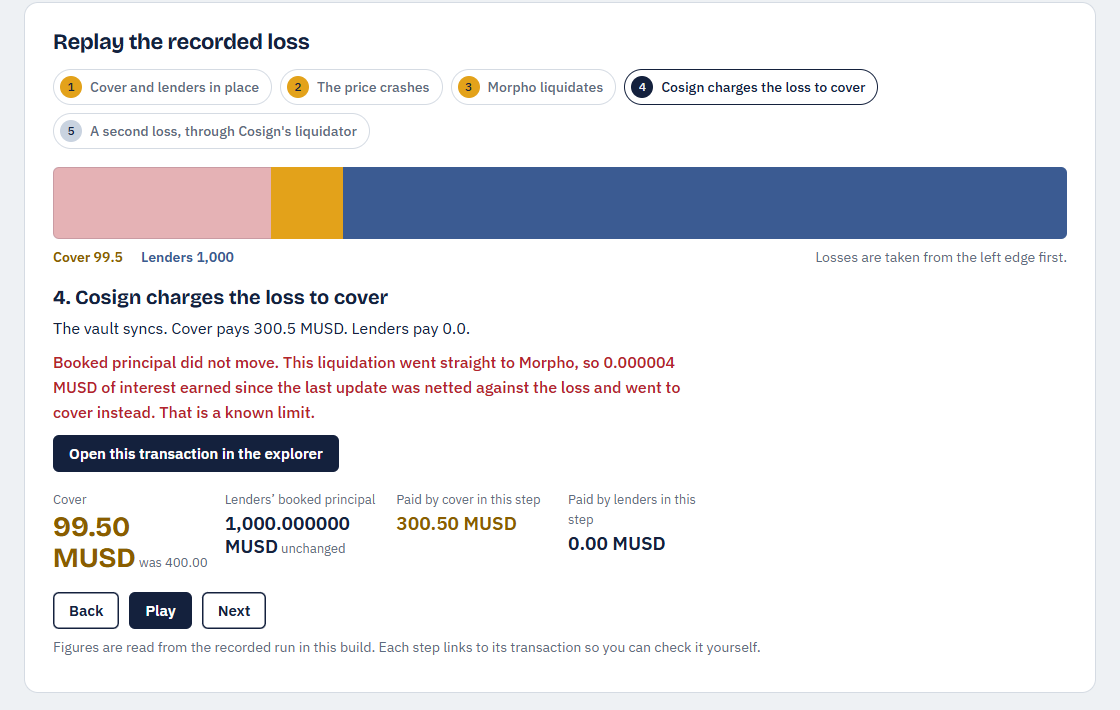
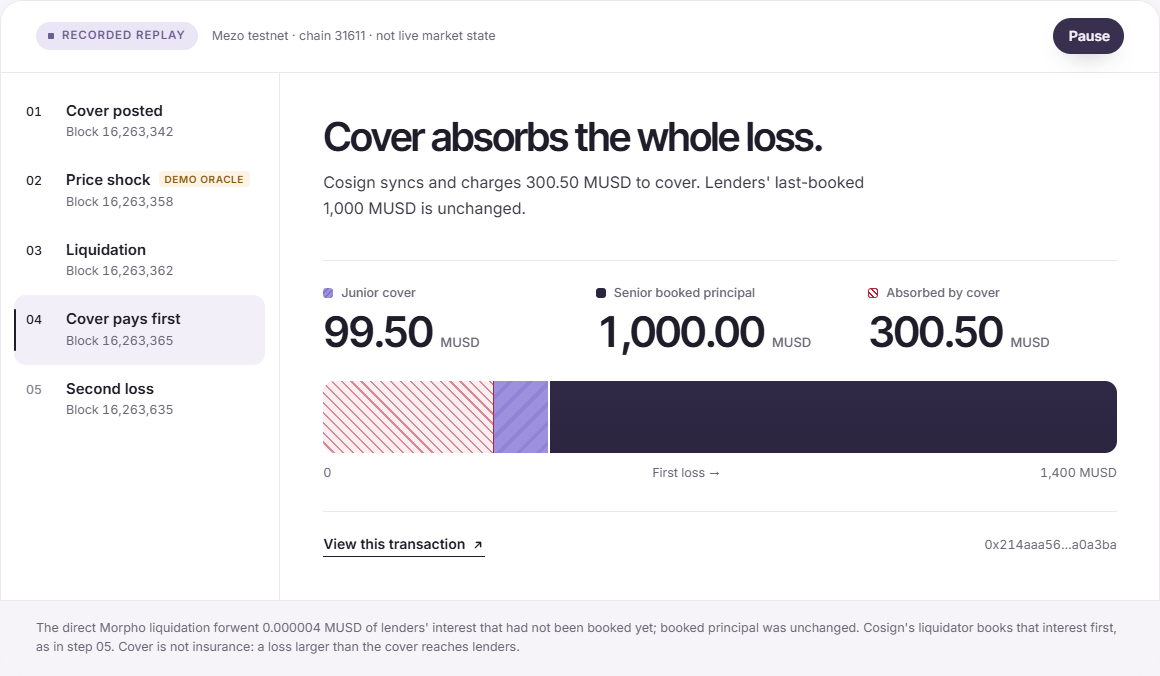
polish(web): pass-2 fixes, design system and asset review docs, new screenshots
- Header aligns to the content grid at wide widths; imagery and dark bands bleed.
- Responsive crops now go through --focal; the inline slot position had been
  overriding the breakpoint rules, so phones showed only the edge of the rings.
- Tablet hero band height capped; narrow market facts become rows.
- docs/DESIGN_SYSTEM.md: type, scales, grid, spacing, radii, controls, colour
  roles, motion. docs/ASSET_REVIEW.md: accepted and rejected V1 assets, missing
  art and re-export sizes.
- Screenshots of the old UI replaced with the current site and app.

diff --git a/web/src/site/site.css b/web/src/site/site.css
@@ -1,4 +1,4 @@
-/* Marketing website. Expressive composition on the shared tokens and components. */
+/* Marketing website. Expressive composition on the shared tokens and components. */
 
 .skip { position: fixed; left: 16px; top: -60px; z-index: 100; padding: 10px 16px; border-radius: var(--r-s); background: var(--plum); color: var(--on-dark); text-decoration: none; transition: top var(--d-base) var(--ease); }
 .skip:focus { top: 12px; }
@@ -8,7 +8,8 @@
 /* ---------------------------------------------------------------- header */
 .site-header { position: sticky; top: 0; z-index: 50; background: rgba(252, 251, 250, 0.84); backdrop-filter: saturate(1.4) blur(14px); -webkit-backdrop-filter: saturate(1.4) blur(14px); box-shadow: 0 1px 0 transparent; transition: box-shadow var(--d-base) var(--ease); }
 .site-header.is-scrolled { box-shadow: 0 1px 0 var(--hairline); }
-.site-header-in { display: grid; grid-template-columns: 1fr auto 1fr; align-items: center; height: 72px; padding-inline: var(--edge); }
+/* text and navigation sit on the content grid; only imagery and dark bands bleed wider */
+.site-header-in { display: grid; grid-template-columns: 1fr auto 1fr; align-items: center; height: 72px; max-width: calc(var(--content) + 2 * var(--edge)); margin-inline: auto; padding-inline: var(--edge); }
 .wordmark { display: inline-flex; align-items: center; gap: 9px; color: var(--ink); text-decoration: none; font: 700 1.3125rem / 1 var(--font-display); letter-spacing: -0.045em; justify-self: start; }
 .wordmark-dot { color: var(--cover-deep); }
 .site-nav { display: flex; gap: clamp(18px, 2.2vw, 36px); }
@@ -68,18 +69,22 @@ html.menu-open { overflow: hidden; }
   max-width: 1898px; align-self: center;
 }
 .hero-band .art { transform: translate3d(0, var(--band-shift, 0px), 0); }
-.hero-band .art img { object-position: 62% 100%; }
+.hero-band { --focal: 62% 100%; }
 .hero-in { animation: hero-in 1.1s var(--ease) both; animation-delay: calc(120ms + var(--i, 0) * 90ms); }
 .hero-band .art { animation: band-in 1.8s var(--ease) both; }
 @keyframes hero-in { from { opacity: 0; transform: translate3d(0, 18px, 0); } }
 @keyframes band-in { from { opacity: 0; } }
+@media (min-width: 641px) and (max-width: 1023px) {
+  .hero-card { min-height: 0; }
+  .hero-band { flex: none; height: 360px; min-height: 0; }
+  .hero-band { --focal: 100% 100%; }
+}
 @media (max-width: 640px) {
-  .hero-card { min-height: calc(100svh - 72px - 12px); border-radius: var(--r-l); }
+  .hero-card { min-height: 0; border-radius: var(--r-l); }
   .hero-copy { padding-top: 56px; }
   .hero-cta { flex-direction: column; align-self: stretch; padding-inline: 4px; margin-top: 30px; }
-  .hero-card { min-height: 0; }
   .hero-band { flex: none; height: 300px; min-height: 0; margin-top: -16px; }
-  .hero-band .art img { object-position: 88% 100%; }
+  .hero-band { --focal: 87% 100%; }
 }
 
 /* ---------------------------------------------------------------- idea */
@@ -147,7 +152,7 @@ html.menu-open { overflow: hidden; }
   .role-copy p { max-width: none; }
   .role-copy, .role-borrow .role-copy { padding-right: 84px; }
   .r-lend .role-band, .r-cosign .role-band { aspect-ratio: auto; min-height: 210px; }
-  .r-lend .art img { object-position: 62% 100%; }
+  .r-lend { --focal: 62% 100%; }
   .role-borrow { min-height: 0; }
 }
 
@@ -176,12 +181,13 @@ html.menu-open { overflow: hidden; }
 .market-note { padding: 4px 4px 0; max-width: 64ch; }
 @media (max-width: 960px) { .markets { grid-template-columns: 1fr; } }
 @media (max-width: 600px) {
-  .market { grid-template-columns: 1fr auto; }
-  .market-art { grid-column: 1 / -1; min-height: 0; aspect-ratio: 296 / 170; margin-bottom: 4px; }
+  .market { position: relative; grid-template-columns: 1fr; }
+  .market-art { min-height: 0; aspect-ratio: 296 / 170; margin-bottom: 4px; }
   .market-body { padding: 14px 8px 8px; }
-  .market-go { grid-row: 2; grid-column: 2; margin-top: 12px; }
-  .market-facts { grid-template-columns: repeat(3, minmax(0, 1fr)); gap: 12px; }
-  .market-facts dd { font-size: 1.25rem; }
+  .market-go { position: absolute; top: 22px; right: 22px; margin: 0; background: rgba(255, 255, 255, 0.9); }
+  .market-facts { grid-template-columns: 1fr; gap: 10px; }
+  .market-facts > div { flex-direction: row; align-items: baseline; }
+  .market-facts dd { margin-top: 0; font-size: 1.125rem; }
 }
 
 /* ---------------------------------------------------------------- architecture */
@@ -285,7 +291,7 @@ html.menu-open { overflow: hidden; }
 .closing-band { position: relative; width: 100%; max-width: 1372px; align-self: center; aspect-ratio: 1372 / 387; min-height: 240px; margin-top: -32px; }
 .closing-band .art { transform: translate3d(0, var(--band-shift, 0px), 0); }
 .closing-band { --fade: 40%; }
-@media (max-width: 640px) { .closing-copy h2 { font-size: 2.125rem; } .closing-card { border-radius: var(--r-l); } .closing-band { min-height: 220px; } .closing-band .art img { object-position: 28% 100%; } }
+@media (max-width: 640px) { .closing-copy h2 { font-size: 2.125rem; } .closing-card { border-radius: var(--r-l); } .closing-band { min-height: 220px; } .closing-band { --focal: 28% 100%; } }
 
 /* ---------------------------------------------------------------- footer */
 .site-footer { margin-top: var(--section); border-top: 1px solid var(--hairline); }

diff --git a/docs/DESIGN_SYSTEM.md b/docs/DESIGN_SYSTEM.md
@@ -1,0 +1,88 @@
+# Cosign design system
+
+One system for the website (`/`) and the app (`/app/`). Tokens live in `web/src/ui/tokens.css`, shared components in `web/src/ui/components.css`; a dev-only specimen is served at `/system.html` by `npm run dev`.
+
+## Typography
+
+**Inter Tight** for display type and figures, **Inter** for text: one family at two spacings, both SIL Open Font License, self-hosted (`web/src/ui/fonts/`, licences in `web/public/fonts/`). Latin subset, variable weight: Inter 400–700 with optical sizes 14–32, Inter Tight 500–700.
+
+Chosen after rendering the same Cosign section in Inter Tight, Geist, and Manrope with DM Sans (the V4 pairing). Inter Tight matches the approved screenshot's tight, crisp headlines and has the cleanest tabular figures; as body text it is cramped, so text is set in Inter. Geist read as a developer tool; Manrope's wide figures sprawl in data rows.
+
+| Role | Family, weight | Size (fluid) | Line height | Tracking |
+|---|---|---|---|---|
+| Hero | Inter Tight 600 | 48 → 112 px | 0.96 | −0.05em |
+| Display (section titles) | Inter Tight 600 | 40 → 72 px | 1.0 | −0.045em |
+| Title (card titles) | Inter Tight 600 | 28 → 40 px | 1.06 | −0.035em |
+| Heading | Inter Tight 600 | 20 px | 1.25 | −0.015em |
+| Figure | Inter Tight 600, tabular | 36 → 60 px | 1.0 | −0.04em |
+| App figure | Inter Tight 600, tabular | 24 px | 1.0 | −0.03em |
+| Lede | Inter 400 | 17 → 19 px | 1.55 | 0 |
+| Body | Inter 400 | 16 px | 1.6 | 0 |
+| Small | Inter 400 | 14 px | 1.55 | 0 |
+| Caption | Inter 400–500 | 12.5 px | 1.45 | 0 |
+| Label (eyebrows, table heads) | Inter 600, uppercase | 11.5 px | 1.0 | +0.12em |
+
+**Numbers.** All financial figures use tabular, lining numerals (`.num`, `font-variant-numeric: tabular-nums`). Units follow the figure in Inter 500 at caption size (`1,000.00 MUSD`). MUSD shows two decimals; share prices nine; MEZO rewards four; veBTC power six. A shortfall is rounded **up** to the cent (`up2`), so it is never understated. Headlines use `text-wrap: balance`, paragraphs `pretty`, with deliberate `<br>` breaks on display lines.
+
+## Grid and spacing
+
+- Page gutter `--edge`: 16 → 64 px. Content column `--content`: 1,312 px, centred.
+- Text and navigation always sit on the content column. Imagery (hero, closing card) and dark bands bleed to the gutter.
+- Card gap `--gap`: 12 → 20 px. Chapter rhythm `--section`: 80 → 168 px.
+- Spacing scale (4-based): 4, 8, 12, 16, 20, 24, 32, 40, 48, 64, 80, 96, 128.
+- Landing compositions: 7/5 and 5/7 asymmetric splits; the roles chapter is 7/5 with a full-width third card.
+- App: 248 px sidebar, content up to 1,240 px; market detail is a fluid main column with a 360 px action column (stacks below 1,180 px).
+
+## Radii, borders, elevation
+
+Radii 8 (chips, swatches), 12 (inner blocks), 16 (app panels, fields), 22 (cards), 28 (hero, closing), pill for buttons. Borders are 1 px hairlines drawn as inset shadows (`--hairline` #EBE7EF, `--line` #DDD8E4). Two shadows only: `--shadow-soft` for resting raised cards, `--shadow-lift` for hover and the transaction tray.
+
+## Controls
+
+| Control | Height | Notes |
+|---|---|---|
+| Button large | 52 px | Landing calls to action |
+| Button | 44 px | Default; meets the 44 px touch target |
+| Button small | 36 px | Dense app rows; grows to 44 px on coarse pointers |
+| Amount field | 56 px | Figure-sized input, unit and Max inside the field |
+| Icon / circle link | 40–44 px | |
+
+Variants: dark (primary), light (secondary), white (on imagery), ghost (tertiary). Hover deepens the fill and nudges the arrow; press scales to 0.98; disabled is 42% opacity and is always explained by nearby text (for example "Deposits are closed: the market is under-covered"). Focus is a 2 px `--focus` outline offset 3 px.
+
+## Colour roles
+
+| Token | Value | Role | Contrast on paper |
+|---|---|---|---|
+| `--paper` | #FCFBFA | page | |
+| `--porcelain` | #F6F4F8 | quiet band, app sidebar | |
+| `--mist` / `--lilac` | #F2EFF8 / #EBE6F5 | cards, secondary button | |
+| `--plum` | #262035 | dark band, primary button | |
+| `--ink` | #1F1D29 | headings, figures | 16.1:1 |
+| `--copy` | #3D3947 | body | 10.8:1 |
+| `--muted` | #6B6676 | secondary text, labels | 5.4:1 (4.5:1 on lilac) |
+| `--iris` | #6A5F92 | accent headline words | 5.5:1 |
+| `--cover` | #9D90DC | junior cover (always with a hatch) | non-text |
+| `--senior` | #2B2540 | senior principal | non-text |
+| `--loss` | #B42339 | loss and under-covered only | 6.3:1 |
+| `--ok` | #357052 | confirmed, live | 4.9:1 |
+| `--pending` | #8A5A12 | pending, never success | 5.7:1 |
+
+Cover is never identified by colour alone: it is hatched, loss is cross-hatched with a red edge, room to lend is an outline, and the minimum cover is a dashed rule. Live state uses a round dot; recorded history a square one and the label "Recorded".
+
+## Motion
+
+Transform and opacity only, `cubic-bezier(.16, 1, .3, 1)`.
+
+- **Reveals:** sections rise 28 px and fade over 900 ms, staggered 70 ms per item, once.
+- **Hero:** the copy enters in sequence, and the panorama fades up.
+- **Parallax:** the hero and closing bands drift downward at 0.10–0.12 of scroll, only ever downward so no edge is exposed. Disabled for touch and for reduced motion.
+- **Replay:** figures tween over 900 ms, and segments slide on one fixed 1,400 MUSD scale. Autoplay is 2.6 s per step and stops at the end. Keyboard arrows move between steps.
+- **Transactions:** the tray steps from Sign, to Mining, to Confirmed. Confirmed appears only after a successful receipt; pending states cannot be dismissed. All action buttons are disabled while a transaction is in flight.
+- **Reduced motion:**
+  - Reveals and parallax are skipped.
+  - Tweens jump to the end value.
+  - Every transition is clamped to 1 ms.
+
+## Imagery
+
+Art slots are filled by dropping `<slot>.webp` into `web/src/art/` (see that folder's README). The provided images are short panoramas, so they are composed as bands that rise out of the surface colour behind a top fade, not as full-bleed backgrounds, and are never shown much past their source detail. Which assets are used where, and what is still missing: `docs/ASSET_REVIEW.md`.

diff --git a/docs/ASSET_REVIEW.md b/docs/ASSET_REVIEW.md
@@ -1,0 +1,40 @@
+# Visual asset review: Cosign Original Visual Assets V1
+
+Reviewed at 100% before integration: sharpness, crop seams, embedded text, composition, and fit at 390, 768, 1,440 and 1,920 px.
+
+**The constraint that shaped every placement:** every image is 225 to 342 px tall, cropped from 1,852 px concept boards. None can fill a card or hero as a full-bleed background without heavy enlargement. They are composed as panoramic bands that rise out of the surface colour behind a soft top fade, and are shown at no more than about 1.3x their source detail (Lanczos resampling, light unsharp mask, WebP q86). They look sharp on standard displays and **soft on 2x/3x retina screens**. Re-exports at the sizes below would remove that softness without any code change.
+
+Nine of the eleven files carried a 6 to 9 px white band from the board crop; `onchain-evidence` also had one on its left edge. These were trimmed. `glass-ledger` has a rounded tile corner baked into its top-left.
+
+## Accepted
+
+| File | Used as | Where | Treatment |
+|---|---|---|---|
+| `hero-landscape` | `hero` | Hero panorama | Cropped to x 0–1,460, removing the unrelated cliff town on the right. Marble and glass rings read as two parties bound together. Focal point at the rings on every width. |
+| `senior-capital` | `lend` | "Lenders" card | Stacked glass layers: senior capital as structure. Trimmed the cut-off glass column on the left and the top seam. |
+| `risk-boundary` | `cosign` | "Co-signers" card | Capital streaming between two boundaries, exposed: the first-loss position. Top seam trimmed. |
+| `market-bold` | `bold` | Bold market thumbnail (site and app) | Dark, fractured, lit from within: the higher-leverage configuration. Only used small (≤184 px), where it is sharp. |
+| `market-steady` | `steady` | Steady market thumbnail | Calm and light: the thicker-cover configuration. Copy beside it states that neither market is safe. |
+| `landscape-portal` | `closing` | Closing call to action | An arch opening onto a vista, under "Enter the Cosign app". 1,055 px wide, so the band is capped and fades into the card at the sides. |
+
+## Rejected
+
+| File | Reason |
+|---|---|
+| `cosigner-capital` | A coin stamped with the Cosign petal mark. It implies a Cosign token, which does not exist; the asset guide itself says the medallion is not an official token. It also falls into the "coins" pattern the founder ruled out. To use it anyway, rename it to `web/src/art/cosign.webp`. |
+| `finance-architecture` | Classical columns: the bank-building cliché the brief rules out, and it says nothing specific about first-loss capital. |
+| `onchain-evidence` | The glass panels carry pseudo-UI and illegible fake text, which the brief forbids. It also implies charts Cosign does not show. |
+| `glass-ledger` | Fake document text on the glass and a baked-in rounded corner seam. Its stacked cubes are close to the "random glass cubes" pattern. |
+| `hero-alternate` | The softest file in the pack (lowest edge detail). It repeats the hero's ring-in-landscape idea, so using it as well would make the page repetitive. Kept in reserve. |
+
+## Missing art (sections that work without it today)
+
+| Slot | Section | Ideal composition | Deliver at |
+|---|---|---|---|
+| `evidence` | "Trust less. Verify more." dark band | The same world at dusk: one clear, polished glass tablet with no glyphs, lit from behind, on stone. Space on the left for text. Must contain no writing or UI. | 2,400 × 1,200 |
+| hero re-export | Hero | The same `hero-landscape` scene without the town, at full resolution. Sky in the top 45%. | 3,800 × 900 |
+| `lend`, `cosign` re-exports | Roles cards | The same scenes; object in the lower right two-thirds, top 40% quiet. | 2,048 × 600 |
+| `closing` re-export | Closing call to action | The same portal scene. | 2,800 × 800 |
+| borrower art (optional) | "Borrow against MEZO" card | Currently typographic with real LTV figures, which carries the information better than art would. Add art only if it stays wordless. | 2,048 × 600 |
+
+All slots are registered in `web/src/ui/Art.tsx`. A delivered file named after its slot is picked up at build time. Focal points can be changed per slot there, or per breakpoint in `web/src/site/site.css`.

diff --git a/README.md b/README.md
@@ -7,7 +7,7 @@
   Unaudited prototype · Mezo testnet only · <a href="#security-and-limitations">Read the limits first</a>
 </p>
 
-<p align="center"><img src="docs/screenshots/readme-explore.png" alt="The wallet-free replay of the recorded 300.5 MUSD loss: cover shrinks from 400 to 99.5 MUSD while lenders' booked principal stays at 1,000" width="860"></p>
+<p align="center"><img src="docs/screenshots/readme-explore.png" alt="The recorded loss replay on the Cosign website: cover falls from 400 to 99.5 MUSD while lenders' booked principal stays at 1,000" width="860"></p>
 
 ## Overview
 
@@ -46,15 +46,17 @@ External: Mezo MUSD, the MEZO precompile, and the Mezo veBTC contract.
 
 ## Product preview
 
-The first page of the app is a wallet-free **Explore demo**: a plain-language explanation, a comparison of the two markets, and a step-by-step replay of the recorded loss. It uses only the transactions recorded in `contracts/deployments/demo-run.json`; each step links to the real transaction in the Mezo explorer. Nothing on that page moves funds. Using your own wallet is a separate flow under **Markets** and **Co-sign**.
+The web front end has two parts. The **website** (`/`) explains the mechanism and replays the recorded loss step by step, wallet-free, from the transactions in `contracts/deployments/demo-run.json`; each step links to the real transaction in the Mezo explorer. The **app** (`/app/`) reads the deployed contracts directly: market overview, each market's capital stack, lending and borrowing, co-signing and veBTC votes, rewards, wallet positions, and the recorded evidence. Nothing on the website moves funds.
 
-<p align="center"><img src="docs/screenshots/readme-market.png" alt="The Bold MEZO market in the Cosign app: cover in front of lenders, with the guarantee panel" width="860"></p>
+<p align="center"><img src="docs/screenshots/readme-market.png" alt="The Bold MEZO market in the Cosign app: the live capital stack, cover in front of lenders, and the cover needed to reopen deposits" width="860"></p>
 
-The market pages read the deployed contracts directly. The bar shows capital in the order it is lost: cover first, then lenders.
+The capital stack shows money in the order it is lost: cover first, then lenders. The dashed mark is the minimum cover; below it, new deposits pause, and the app states how much cover reopens them.
 
 <p align="center"><img src="docs/screenshots/readme-losses.png" alt="Losses on this market: two liquidation losses, both paid entirely by cover, each linked to its block" width="860"></p>
 
-More screenshots are in [`docs/screenshots`](docs/screenshots) (light and dark, desktop and mobile).
+Design tokens, type and motion rules are in [`docs/DESIGN_SYSTEM.md`](docs/DESIGN_SYSTEM.md); how the provided artwork was reviewed and placed is in [`docs/ASSET_REVIEW.md`](docs/ASSET_REVIEW.md).
+
+More screenshots are in [`docs/screenshots`](docs/screenshots).
 
 ## Onchain proof
 

diff --git a/docs/WALLET_ACCEPTANCE.md b/docs/WALLET_ACCEPTANCE.md
@@ -34,7 +34,7 @@ For each row, write PASS, FAIL or SKIP, the date, and one line on what you saw. 
 
 | # | Steps | Expected | Result |
 |---|---|---|---|
-| A1 | Open the app in a browser **without** a wallet extension. Click Connect wallet. | A clear message that no browser wallet was found. Explore demo still works. | NOT RUN |
+| A1 | Open the app in a browser **without** a wallet extension. Click Connect wallet. | A clear message that no browser wallet was found. The website replay and the app's Recorded evidence page still work. | NOT RUN |
 | A2 | With the wallet installed, click Connect wallet. | Wallet asks for permission, then the header shows your short address and Disconnect. | NOT RUN |
 | A3 | Click Disconnect. | Header returns to Connect wallet. No positions shown. Reloading does not reconnect silently. | NOT RUN |
 | A4 | Remove Mezo testnet from the wallet, then Connect. | Wallet offers to add the network (chain 31611, RPC `rpc.test.mezo.org`, symbol BTC). Approve. | NOT RUN |

diff --git a/web/src/art/README.md b/web/src/art/README.md
@@ -2,9 +2,9 @@
 
 Drop finished images here, named after their slot. They are picked up automatically at build time; no component changes.
 
-- `hero.webp` for the desktop version, `hero.mobile.webp` for phones (optional; falls back to `hero.webp`).
+- Slots in use: `hero`, `lend`, `cosign`, `bold`, `steady`, `closing`. Add `<slot>.mobile.webp` for a phone-specific crop (optional).
 - Formats: `.avif`, `.webp`, `.jpg`, `.png` (first match wins in that order).
-- Sizes, safe areas for text, focal points and tone for every slot: `docs/ASSET_BRIEFS.md`.
+- What each slot needs, and which provided files were accepted or rejected: `docs/ASSET_REVIEW.md`.
 - To change the crop of a delivered image, edit `focal` for that slot in `web/src/ui/Art.tsx`.
 
 Until a file exists, the slot shows a quiet tonal surface (and, in dev only, a label with its name and size).
